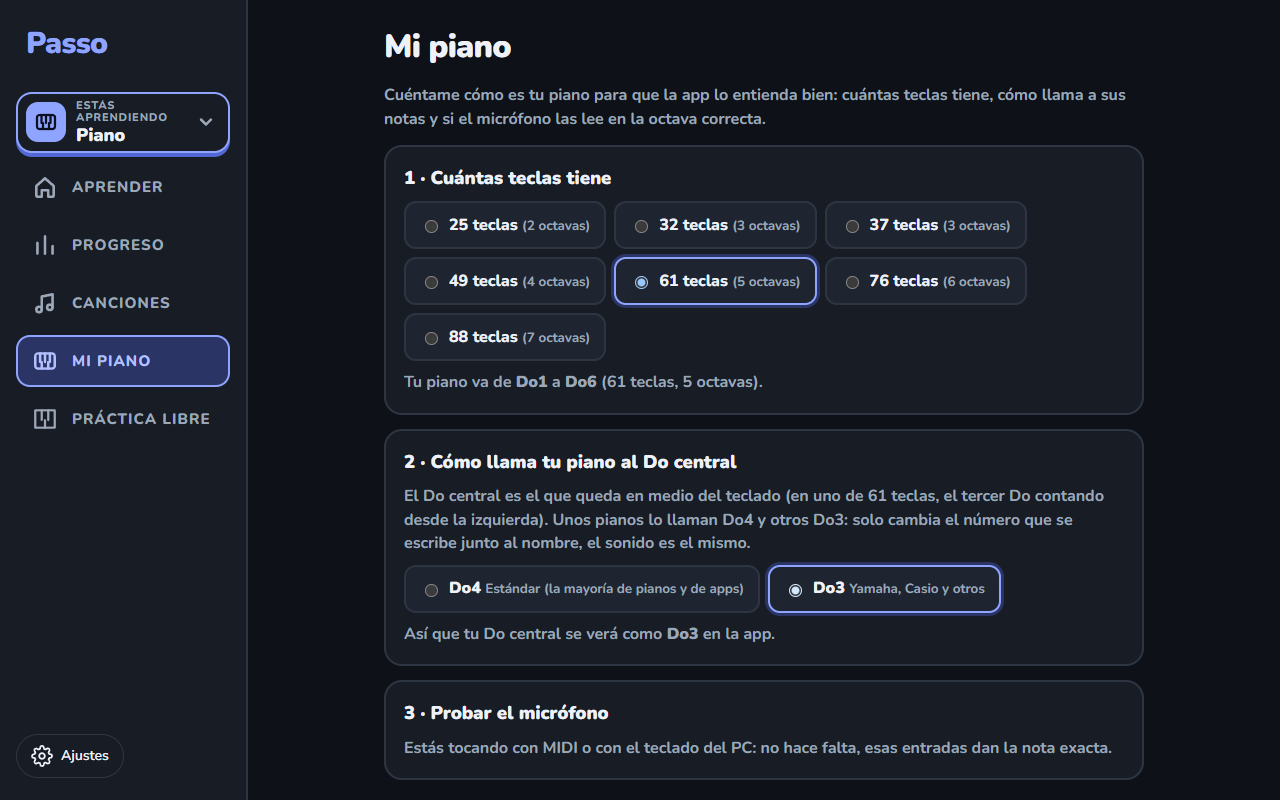
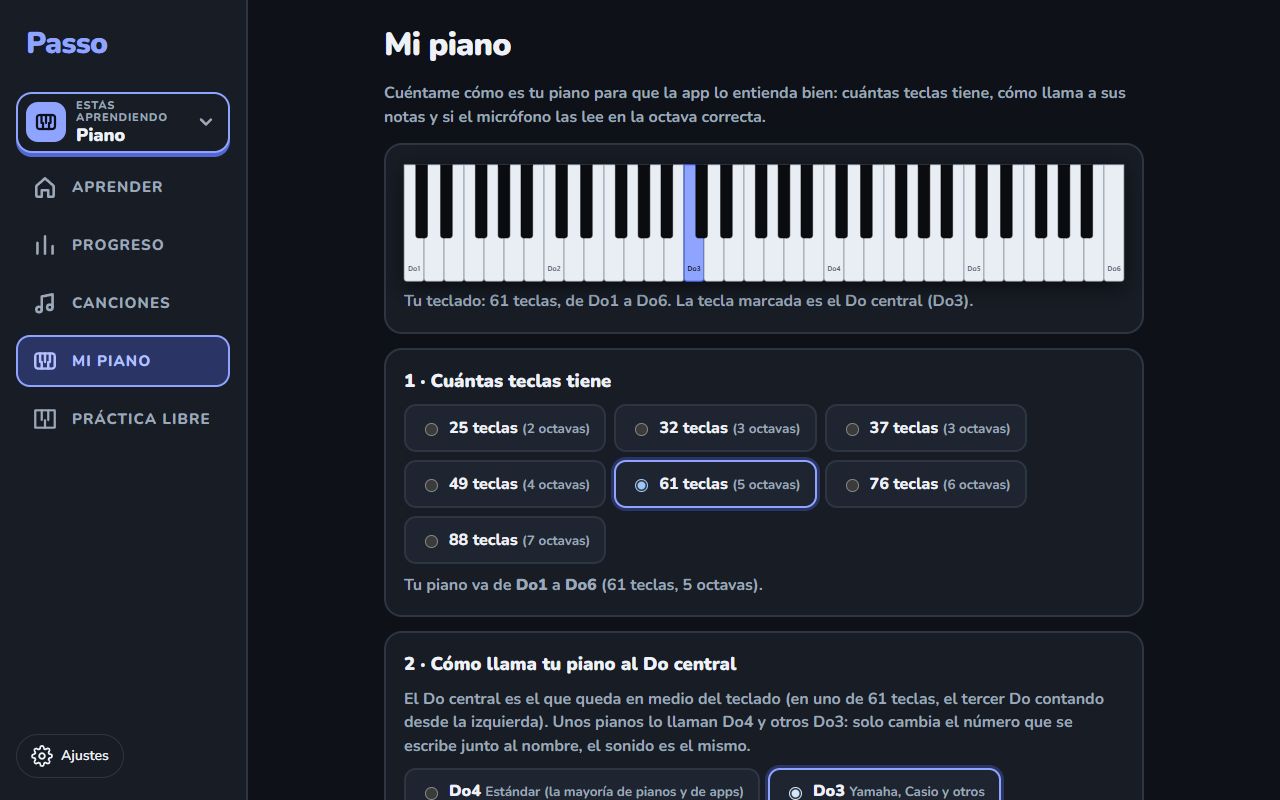
feat: Mi piano muestra tu teclado (octavas elegidas, Do central y la tecla que toca) y pide solo notas que el micrófono puede oír (Do3–Do6)
Aro en la nota que oyó, ✓/✕ en las probadas, aviso si no oye la nota en 6 s y cuántas teclas quedan fuera del rango del micrófono.

Changed region(s): [[0.3125, 0.4688, 0.875, 1.0], [0.2812, 0.0312, 0.9062, 0.4375]]

diff --git a/src/ui/screens/MiPianoScreen.tsx b/src/ui/screens/MiPianoScreen.tsx
@@ -1,11 +1,14 @@
-import { useEffect, useSyncExternalStore } from 'react';
+import { useEffect, useState, useSyncExternalStore } from 'react';
 import type { PianoSetupService } from '@/core/application/piano-setup-service';
 import type { PreferencesService } from '@/core/application/preferences-service';
-import { noteName } from '@/core/domain/note';
+import { isBlackKey, noteName, pitchClass } from '@/core/domain/note';
+import type { Midi } from '@/core/domain/note';
 import type { NotationMode } from '@/core/domain/note';
 import {
   KEYBOARD_SIZES,
+  MIC_RANGE,
   keyboardRange,
+  keysOutsideMic,
   octaveCount,
   probeKind,
   probeSummary,
@@ -14,6 +17,8 @@ import type { OctaveNaming, ProbeKind } from '@/core/domain/piano-setup';
 import type { InputMonitor } from '@/core/ports/input-monitor';
 import type { NoteInput } from '@/core/ports/note-input';
 import { GameButton } from '../game/GameButton';
+import { PianoKeyboard } from '../keyboard/piano-keyboard';
+import type { KeyVisual } from '../keyboard/piano-keyboard';
 import { useInputStatus, useMonitor } from '../practice/hooks';
 import './mi-piano.css';
 
@@ -23,6 +28,14 @@ const KIND_TEXT: Readonly<Record<ProbeKind, string>> = {
   'octava-abajo': '↓ una octava más grave',
   otra: '✗ otra nota',
 };
+
+/** El Do central (MIDI 60): el punto de referencia para saber cómo llama el piano a sus notas. */
+const MIDDLE_C = 60;
+/** Si en tantos segundos no se oye la nota pedida, se avisa de que puede estar fuera del rango. */
+const SILENCE_HINT_MS = 6000;
+
+const whiteBelow = (midi: Midi): Midi => (isBlackKey(midi) ? midi - 1 : midi);
+const whiteAbove = (midi: Midi): Midi => (isBlackKey(midi) ? midi + 1 : midi);
 
 /** Los parámetros del piano: cuántas teclas tiene, cómo llama al Do central y una prueba del micrófono. */
 export function MiPianoScreen({
@@ -53,6 +66,41 @@ export function MiPianoScreen({
   const fixes = setup.fixes();
   const summary = probeSummary(probe.results);
   const prompt = probe.notes[probe.index];
+  const outside = keysOutsideMic(prefs.pianoKeys);
+  const probing = probe.phase === 'probando' && prompt !== undefined;
+
+  // Si pasan unos segundos sin oír la tecla pedida, se dice por qué puede ser y que se puede saltar. Se guarda
+  // para qué nota y qué última lectura ya pasó el tiempo (así no hay que reiniciar nada al cambiar).
+  const askKey = probing ? `${probe.index}:${probe.lastHeard ?? '-'}` : null;
+  const [silentKey, setSilentKey] = useState<string | null>(null);
+  useEffect(() => {
+    if (askKey === null) return;
+    const id = window.setTimeout(() => setSilentKey(askKey), SILENCE_HINT_MS);
+    return () => window.clearTimeout(id);
+  }, [askKey]);
+  const silent = askKey !== null && silentKey === askKey;
+
+  // El teclado de tu piano: sus octavas, el Do central y, en la prueba, la tecla que toca.
+  const visuals = new Map<Midi, KeyVisual>();
+  if (probing) {
+    for (const result of probe.results) {
+      if (result.detected === null) continue;
+      visuals.set(result.expected, {
+        feedback: result.detected === result.expected ? 'correct' : 'wrong',
+      });
+    }
+    visuals.set(prompt, { target: true });
+    if (probe.lastHeard !== null) {
+      visuals.set(probe.lastHeard, { ...visuals.get(probe.lastHeard), heard: true });
+    }
+  } else if (probe.phase === 'inactiva') {
+    visuals.set(MIDDLE_C, { target: true });
+  }
+  const labelFor = (midi: Midi): string | undefined => {
+    if (isBlackKey(midi)) return undefined;
+    // Se rotulan los Do (con su octava) y la tecla que se pide; si no, el teclado sería ilegible.
+    return pitchClass(midi) === 0 || (probing && midi === prompt) ? name(midi) : undefined;
+  };
 
   return (
     <div className="mipiano" data-testid="mipiano">
@@ -63,6 +111,25 @@ export function MiPianoScreen({
         Cuéntame cómo es tu piano para que la app lo entienda bien: cuántas teclas tiene, cómo llama
         a sus notas y si el micrófono las lee en la octava correcta.
       </p>
+
+      <section
+        className="mipiano__card mipiano__board"
+        aria-label="Tu teclado"
+        data-testid="mipiano-board"
+      >
+        <PianoKeyboard
+          from={whiteBelow(range.low)}
+          to={whiteAbove(range.high)}
+          visuals={visuals}
+          labelFor={labelFor}
+          ariaLabel={`Tu teclado de ${prefs.pianoKeys} teclas, de ${name(range.low)} a ${name(range.high)}`}
+        />
+        <p className="mipiano__muted" data-testid="mipiano-board-caption">
+          {probing
+            ? `Toca la tecla marcada: el ${name(prompt)}.`
+            : `Tu teclado: ${prefs.pianoKeys} teclas, de ${name(range.low)} a ${name(range.high)}. La tecla marcada es el Do central (${name(MIDDLE_C)}).`}
+        </p>
+      </section>
 
       <section className="mipiano__card" aria-labelledby="mipiano-teclas">
         <h2 id="mipiano-teclas" className="mipiano__title">
@@ -154,6 +221,11 @@ export function MiPianoScreen({
         ) : probe.phase === 'inactiva' ? (
           <>
             <p className="mipiano__muted">
+              El micrófono solo oye de {name(MIC_RANGE.low)} a {name(MIC_RANGE.high)}: por debajo,
+              el altavoz casi no da graves y por encima el sonido es demasiado agudo.
+              {outside.below + outside.above > 0
+                ? ` En tu piano hay ${outside.below} teclas más graves y ${outside.above} más agudas que eso: para esas, usa MIDI.`
+                : ''}{' '}
               Te pediré tocar varias teclas, una a una. Comparo lo que oye el micrófono con lo que
               pedí: si alguna sale una octava más arriba o abajo (por ejemplo, tocas un Mi3 y oye un
               Mi4), lo corrijo solo.
@@ -177,6 +249,13 @@ export function MiPianoScreen({
                 ? 'Pulsa la tecla y déjala sonar un momento.'
                 : `Lo último que oí: ${name(probe.lastHeard)}`}
             </p>
+            {silent ? (
+              <p className="mipiano__warn" role="status" data-testid="mipiano-silent">
+                No oigo esa tecla. Prueba a tocarla más fuerte y más cerca del micrófono; si no
+                suena (o es de las más graves o agudas), sáltala: así sabremos hasta dónde llega el
+                micrófono.
+              </p>
+            ) : null}
             <div className="mipiano__actions">
               <GameButton
                 variant="secondary"
@@ -217,7 +296,7 @@ export function MiPianoScreen({
                     <tr key={result.expected} data-kind={kind ?? 'saltada'}>
                       <td>{name(result.expected)}</td>
                       <td>{result.detected === null ? '—' : name(result.detected)}</td>
-                      <td>{kind === null ? 'saltada' : KIND_TEXT[kind]}</td>
+                      <td>{kind === null ? 'no se oyó' : KIND_TEXT[kind]}</td>
                     </tr>
                   );
                 })}

diff --git a/tests/e2e/mi-piano.spec.ts b/tests/e2e/mi-piano.spec.ts
@@ -38,6 +38,19 @@ test('Mi piano · las teclas y el nombre del Do central se eligen y se recuerdan
   await expect(page.getByTestId('piano-range')).toContainText('7 octavas');
 });
 
+test('Mi piano · el teclado muestra las octavas elegidas y el Do central', async ({ page }) => {
+  await chooseInput(page, 'teclado-pc');
+  await page.goto('/?seed=7#/mi-piano');
+  await expect(page.getByTestId('mipiano-board')).toContainText('Do2');
+  await expect(page.getByTestId('mipiano-board')).toContainText('Do central (Do4)');
+  // 61 teclas = 36 blancas; con 25 teclas el teclado se acorta.
+  await expect(page.locator('[data-testid="mipiano-board"] .key--white')).toHaveCount(36);
+  await page.getByTestId('piano-keys-25').check();
+  await expect(page.locator('[data-testid="mipiano-board"] .key--white')).toHaveCount(15);
+  await page.getByTestId('piano-naming-yamaha').check();
+  await expect(page.getByTestId('mipiano-board')).toContainText('Do central (Do3)');
+});
+
 test('Mi piano · la prueba del micrófono detecta una octava de más y la corrige', async ({
   page,
 }) => {
@@ -49,19 +62,23 @@ test('Mi piano · la prueba del micrófono detecta una octava de más y la corri
   await page.getByTestId('mipiano-start').click();
   await expect(page.getByTestId('mipiano-probe')).toBeVisible();
 
-  // La primera nota (el bajo) se salta; la segunda (Do3) y la tercera (Mi3) «suenan» una octava arriba.
-  await page.getByTestId('mipiano-skip').click();
+  // El teclado marca la tecla que toca; la primera (Do3) y la segunda (Mi3) «suenan» una octava arriba.
   await expect(page.getByTestId('mipiano-ask')).toContainText('Do3');
+  await expect(page.locator('[data-testid="mipiano-board"] .key--target')).toHaveCount(1);
+  await expect(page.getByTestId('mipiano-board')).toContainText('Toca la tecla marcada: el Do3');
   await micNote(page, 60, { ms: 700 });
   await expect(page.getByTestId('mipiano-ask')).toContainText('Mi3', { timeout: 8000 });
+  // La nota que se oyó (Do4) se ve en el teclado y la pedida queda marcada como «otra octava».
+  await expect(page.locator('[data-testid="mipiano-board"] .key--heard')).toHaveCount(1);
   await page.waitForTimeout(1600);
   await micNote(page, 64, { ms: 700 });
   await expect(page.getByTestId('mipiano-ask')).toContainText('Sol3', { timeout: 8000 });
   await capture(page, '02-probando');
   // El resto se salta.
-  for (let n = 0; n < 7; n++) await page.getByTestId('mipiano-skip').click();
+  for (let n = 0; n < 8; n++) await page.getByTestId('mipiano-skip').click();
   await expect(page.getByTestId('mipiano-result')).toContainText('se puede corregir');
   await expect(page.getByTestId('mipiano-result')).toContainText('una octava más aguda');
+  await expect(page.getByTestId('mipiano-result')).toContainText('no se oyó');
   await capture(page, '03-resultado');
   await page.getByTestId('mipiano-save').click();
   await expect(page.getByTestId('mipiano-saved')).toContainText('Corrección guardada');

diff --git a/src/core/domain/piano-setup.ts b/src/core/domain/piano-setup.ts
@@ -112,14 +112,29 @@ export function correctNote(fixes: readonly MicFix[], detected: Midi): Midi {
 
 // ─── La prueba ─────────────────────────────────────────────────────────────────────────────────────
 
-/** Las notas que se piden en la prueba: repartidas por el teclado, solo las que existen en él. */
+/**
+ * Las notas que el micrófono puede oír con un piano: del Do3 al Do6 (en nombres estándar; MIDI 48–84). Por debajo, el
+ * altavoz de un teclado casi no da graves; por encima, el sonido es demasiado agudo para medirlo bien. Es el rango
+ * del rastreador de notas (`minMidi` y `maxMidi`).
+ */
+export const MIC_RANGE = { low: 48, high: 84 } as const;
+
+/** Las notas que se piden en la prueba: repartidas por la parte del teclado que el micrófono puede oír. */
 export function testNotes(keys: KeyboardSize): Midi[] {
   const { low, high } = keyboardRange(keys);
-  const wanted = [48, 52, 55, 60, 64, 67, 72, 79, 84];
-  const inside = wanted.filter((note) => note >= low && note <= high);
-  // Si el teclado llega más abajo del Do3, se añade una nota grave para ver cómo lee el micrófono.
-  if (low <= 40) return [low <= 36 ? 40 : low + 4, ...inside];
-  return inside;
+  const wanted = [48, 52, 55, 60, 64, 67, 72, 76, 79, 84];
+  return wanted.filter(
+    (note) => note >= Math.max(low, MIC_RANGE.low) && note <= Math.min(high, MIC_RANGE.high),
+  );
+}
+
+/** Cuántas teclas del teclado quedan fuera de lo que el micrófono puede oír (por debajo y por encima). */
+export function keysOutsideMic(keys: KeyboardSize): { below: number; above: number } {
+  const { low, high } = keyboardRange(keys);
+  return {
+    below: Math.max(0, Math.min(high, MIC_RANGE.low - 1) - low + 1),
+    above: Math.max(0, high - Math.max(low, MIC_RANGE.high + 1) + 1),
+  };
 }
 
 export type ProbeKind = 'bien' | 'octava-arriba' | 'octava-abajo' | 'otra';

diff --git a/tests/core/piano-setup.test.ts b/tests/core/piano-setup.test.ts
@@ -4,7 +4,9 @@ import {
   correctNote,
   fixesFrom,
   isKeyboardSize,
+  keysOutsideMic,
   keyboardRange,
+  MIC_RANGE,
   namingShift,
   octaveCount,
   probeKind,
@@ -94,9 +96,23 @@ describe('corregir lo que lee el micrófono', () => {
 
 describe('la prueba', () => {
   it('pide notas repartidas por el teclado y solo las que existen en él', () => {
-    expect(testNotes(61)).toEqual([40, 48, 52, 55, 60, 64, 67, 72, 79, 84]);
+    expect(testNotes(61)).toEqual([48, 52, 55, 60, 64, 67, 72, 76, 79, 84]);
     expect(testNotes(25)).toEqual([48, 52, 55, 60, 64, 67, 72]);
-    expect(testNotes(88).every((note) => note >= 21 && note <= 108)).toBe(true);
+    // Nunca se piden notas que el micrófono no puede oír (el bajo de un 61 teclas, los agudos de un 88).
+    for (const keys of KEYBOARD_SIZES) {
+      const { low, high } = keyboardRange(keys);
+      for (const note of testNotes(keys)) {
+        expect(note).toBeGreaterThanOrEqual(Math.max(low, MIC_RANGE.low));
+        expect(note).toBeLessThanOrEqual(Math.min(high, MIC_RANGE.high));
+      }
+    }
+  });
+
+  it('cuenta las teclas que el micrófono no puede oír', () => {
+    // 61 teclas (Do2–Do7): 12 graves (Do2–Si2) y 12 agudas (Do♯6–Do7).
+    expect(keysOutsideMic(61)).toEqual({ below: 12, above: 12 });
+    expect(keysOutsideMic(25)).toEqual({ below: 0, above: 0 });
+    expect(keysOutsideMic(88)).toEqual({ below: 27, above: 24 });
   });
 
   it('cada lectura se clasifica: bien, una octava arriba o abajo, otra', () => {

diff --git a/tests/integration/piano-setup.test.ts b/tests/integration/piano-setup.test.ts
@@ -17,15 +17,15 @@ describe('PianoSetupService · la prueba del piano', () => {
     setup.start(61);
     expect(setup.getSnapshot()).toMatchObject({ phase: 'probando', index: 0 });
     const notes = setup.getSnapshot().notes;
-    expect(notes[0]).toBe(40);
+    expect(notes[0]).toBe(48);
     // La primera sale bien, la segunda una octava arriba.
     press(input, notes[0] as number, 1000);
     press(input, (notes[1] as number) + 12, 2000);
     expect(setup.getSnapshot().results).toEqual([
-      { expected: 40, detected: 40 },
-      { expected: 48, detected: 60 },
+      { expected: 48, detected: 48 },
+      { expected: 52, detected: 64 },
     ]);
-    expect(setup.getSnapshot().lastHeard).toBe(60);
+    expect(setup.getSnapshot().lastHeard).toBe(64);
   });
 
   it('un mismo sonido oído dos veces seguidas no pasa a la siguiente nota', () => {
@@ -58,7 +58,7 @@ describe('PianoSetupService · la prueba del piano', () => {
     const setup = new PianoSetupService({ input });
     setup.start(61);
     setup.skip();
-    expect(setup.getSnapshot().results[0]).toEqual({ expected: 40, detected: null });
+    expect(setup.getSnapshot().results[0]).toEqual({ expected: 48, detected: null });
     setup.stop();
     expect(setup.getSnapshot().phase).toBe('inactiva');
   });

diff --git a/src/ui/screens/mi-piano.css b/src/ui/screens/mi-piano.css
@@ -102,6 +102,23 @@
 .mipiano__table tr[data-kind='otra'] td:last-child {
   color: var(--err);
 }
+/* El teclado se queda a la vista mientras se baja a la prueba: así siempre se ve qué tecla toca. */
+.mipiano__board {
+  position: sticky;
+  top: 8px;
+  z-index: 5;
+  gap: 6px;
+}
+@media (max-width: 899px) {
+  .mipiano__board {
+    top: 72px;
+  }
+}
+.mipiano__warn {
+  margin: 0;
+  color: var(--warn);
+  font-weight: 800;
+}
 .mipiano__saved {
   margin: 0;
   color: var(--ok);

diff --git a/docs/fases/mi-piano.md b/docs/fases/mi-piano.md
@@ -13,7 +13,9 @@ Kevin notó que al tocar sus teclas la app las escribía una octava más arriba 
 
 - **Cuántas teclas tiene** (25, 32, 37, 49, 61, 76 u 88) y por tanto sus octavas (61 = 5 octavas, de Do2 a Do7). Se guarda en las preferencias (`pianoKeys`, sin subir su versión) y fija qué teclas pide la prueba.
 - **Cómo llama al Do central** (`pianoNaming`): Do4 (estándar) o Do3 (Yamaha y otros). Se ve un ejemplo («tu Do central se verá como Do3»).
-- **La prueba del micrófono** (solo si el micrófono es una de las entradas): pide tocar unas 10 teclas repartidas por el teclado (según las teclas que tenga), con su nombre en la convención elegida. Compara lo que oye con lo pedido y clasifica cada una: ✓ bien, ↑ una octava más aguda, ↓ una octava más grave, ✗ otra nota. Si hay octavas de más o de menos, «Corregir esas notas» guarda la corrección (`micFixes`) y desde entonces las notas sueltas del micrófono se entregan en la octava en que se tocaron (`CorrectedNoteInput`: solo con el piano, solo en media octava alrededor de cada nota probada, y no mientras se espera un acorde, que verifica el micrófono por su cuenta). «Quitar la corrección» la borra.
+- **Un teclado en pantalla** con las octavas elegidas (rotula los Do con la convención elegida y marca el Do central). Durante la prueba **resalta la tecla que toca**, marca las ya probadas (✓ o ✕) y dibuja con un aro la nota que oyó el micrófono; se queda a la vista aunque se baje por la pantalla.
+- **El rango que oye el micrófono:** solo de Do3 a Do6 (nombres estándar, MIDI 48–84), el rango del rastreador de notas del piano: por debajo, el altavoz de un teclado casi no da graves; por encima, el sonido es demasiado agudo. La pantalla dice cuántas teclas de tu piano quedan fuera (en uno de 61 teclas, 12 graves y 12 agudas: para esas, usa MIDI). Esto explica que el Mi1 (Yamaha) y el Do5 (Yamaha) no se oyeran en la primera versión de la prueba: eran notas fuera de ese rango, y la prueba pedía hasta el Mi2 y el Do6.
+- **La prueba del micrófono** (solo si el micrófono es una de las entradas): pide hasta 10 teclas repartidas por la parte del teclado que el micrófono puede oír, con su nombre en la convención elegida. Si en 6 s no oye la nota pedida, avisa y se puede saltar («no se oyó»). Compara lo que oye con lo pedido y clasifica cada una: ✓ bien, ↑ una octava más aguda, ↓ una octava más grave, ✗ otra nota. Si hay octavas de más o de menos, «Corregir esas notas» guarda la corrección (`micFixes`) y desde entonces las notas sueltas del micrófono se entregan en la octava en que se tocaron (`CorrectedNoteInput`: solo con el piano, solo en media octava alrededor de cada nota probada, y no mientras se espera un acorde, que verifica el micrófono por su cuenta). «Quitar la corrección» la borra.
 
 ## Límites
 

diff --git a/README.md b/README.md
@@ -332,7 +332,7 @@ evidencias/    videos y capturas de cada fase cerrada, con su informe
 | `E2E_VIDEO=off npm run e2e` | Lo mismo sin grabar video |
 | `npm run build` · `npm run preview` | Compilación de producción y vista previa |
 
-`npm run check` pasa con **1717 pruebas** en 96 archivos y la suite e2e tiene **80 pruebas en Edge**.
+`npm run check` pasa con **1718 pruebas** en 96 archivos y la suite e2e tiene **81 pruebas en Edge**.
 Cada fase cerrada deja su informe, su video y sus capturas en [`evidencias/`](evidencias/).
 
 Para volver a generar las capturas de este README (usan un micrófono simulado y no corren con
